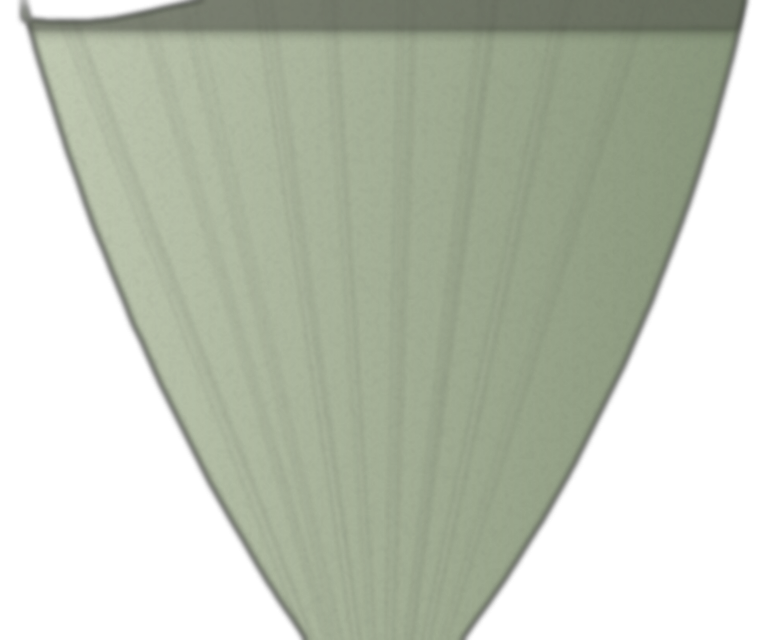
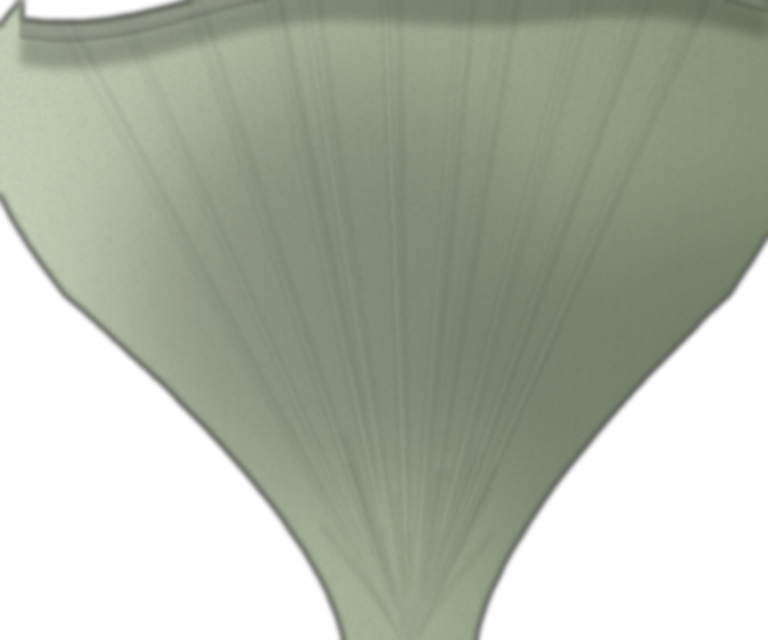
fix: 包み紙を、かたちから包み直した
質感は入ったが**まっすぐな辺の三角形**のままで、
「きれいに描かれた紙」に見えていた ── というご指摘。そのとおりだった。

水彩の筆を通しても、輪郭が直線なら図形のままになる。
本物のラッピングで起きていることを、かたちに入れた。

    口が開く       いちばん上が外へ反り返る
    花に押される   中ほどがふくらむ。辺は外へ張る
    リボンで締まる 結び目の上で急に細くなり、しわが下ほど密に寄る
    手で巻く       左右がそろわない（傾き・張り出しを片側ずつ変える）
    厚みがある     折り返しを「上を向いた面（明るい）＋下の影」の二本で出す

輪郭は片側を2本の弧に分けた。上半分は外へ張り出し、下半分は内へ締まる。
1本の弧では、ふくらみと締まりを同時に出せない。

ふくらんでいるところに光を乗せ、その外側（右下）は落とした。

■ 花の数に、紙が応える

実際のラッピングは、束が太いほど紙が押し広げられる。
絵は紙の色ごとに一枚のままで、**幅だけ**を花の数で変えた。

    3本  幅 57%    6本  幅 63%    9本  幅 69%

絵を何枚も持たずに「包んだ」感じが出る。

■ また黒い横棒が出た

折り返しの帯の**上辺だけ波に沿わせて、下辺をまっすぐ**にしていたため。
厚みではなく縁取りに見える。下辺も同じ波に沿わせて、
どこも同じ厚みで続くようにした。

（同じ失敗を二度している。一度目は波が±6pxで小さすぎたとき。
  **紙の縁に関わるものは、必ず縁の形に沿わせること。**）

通し確認7項目、すべて通過。

Claude-Session: https://claude.ai/code/session_01NKV57SwEiDA72EkGzXeu8N

diff --git a/src/components/BouquetWrap.tsx b/src/components/BouquetWrap.tsx
@@ -12,14 +12,29 @@
  * 紙は6色ぶん、リボンは5色ぶん、あらかじめ書き出してある。
  */
 
+import type { CSSProperties } from 'react';
+
 import './BouquetWrap.css';
 import { ribbonBow, wrapCone } from '../assets/paths';
 import type { Ribbon, Wrapping } from '../data/wrapping';
 
-export function WrapCone({ wrapping }: { wrapping: Wrapping }) {
+/**
+ * 包み紙。
+ *
+ * 絵は紙の色ごとに一枚ずつ。**ただし、太さだけは花の数で変わります。**
+ * 実際のラッピングでは、束が太いほど紙が押し広げられます。
+ * 絵を何枚も持たなくても、幅を変えるだけでその感じは出ます。
+ *
+ *   3本   幅 57%
+ *   6本   幅 63%
+ *   9本   幅 69%
+ */
+export function WrapCone({ wrapping, stems = 3 }: { wrapping: Wrapping; stems?: number }) {
+  const spread = Math.min(12, Math.max(2, stems));
   return (
     <img
       className={`wrap-cone ${wrapping.sheer ? 'wrap-cone--sheer' : ''}`}
+      style={{ '--spread': spread } as CSSProperties}
       src={wrapCone(wrapping.id)}
       alt=""
       aria-hidden

diff --git a/src/components/BouquetWrap.css b/src/components/BouquetWrap.css
@@ -9,7 +9,11 @@
   position: absolute;
   left: 50%;
   bottom: var(--knot-bottom);
-  width: calc(62% * var(--bouquet-scale, 1));
+  /*
+   * 花が多いほど、紙が押し広げられる。
+   * 絵は一枚だが、幅がその日の束に応えるので「包んだ」感じが出る。
+   */
+  width: calc((51% + var(--spread, 3) * 2%) * var(--bouquet-scale, 1));
   height: auto;
   /* 下辺（結び目）が、ちょうど扇の軸にくるように置く */
   transform: translate(-50%, 6%);

diff --git a/src/components/Bouquet.tsx b/src/components/Bouquet.tsx
@@ -161,7 +161,7 @@ export function Bouquet({
         );
       })}
 
-      <WrapCone wrapping={wrappingById(bouquet.wrappingId)} />
+      <WrapCone wrapping={wrappingById(bouquet.wrappingId)} stems={bouquet.stems.length} />
       <RibbonBow ribbon={ribbonById(bouquet.ribbonId)} />
     </div>
   );

diff --git a/tools/placeholder_art/props.py b/tools/placeholder_art/props.py
@@ -648,17 +648,20 @@ BOW_SIZE = (512, 512)
 
 def render_wrap_cone(paper_id: str, seed: int = 0) -> Image.Image:
     """
-    ブーケを包んだ紙。円錐に巻いた一枚。
+    ブーケを包んだ紙。
 
-    **これまで CSS の多角形で描いていました。**
-    真っ直ぐな辺と、等間隔の折り目（conic-gradient）で、
-    花と店内が水彩なのにここだけ図形に見えていました。
+    ── かたちのほうが、まだ「絵」でした ────────────────────────
+    水彩の質感は入りましたが、**まっすぐな辺の三角形**のままでした。
+    紙の手ざわりはあるのに、「きれいに描かれた紙」に見える理由がこれです。
 
-    花・人物と同じ筆で描き直します。
-      にじみ  輪郭を watercolor_mask に通す（切り抜きではなく、紙の縁）
-      光      左上ひとつ。左が明るく、右へ落ちる
-      重なり  折り目ごとに、隣の面へ影を落とす
-      縁      口もとを内側へ折り返す（紙は必ず二重になる）
+    本物のラッピングで起きていることを、かたちに入れます。
+
+      口が開く      いちばん上が外へ反り返る。切りっぱなしの縁が立つ
+      花に押される  中ほどがふくらむ。辺は直線ではなく、外へ張る
+      リボンで締まる 結び目の上で急に細くなり、しわが寄る
+      手で巻く      左右がそろわない。片側だけ多く重なる
+      紙に厚みがある 折り返しは「濃い色の帯」ではなく、
+                    **上の面（明るい）＋下の影**の二本で出す
     """
     spec = PAPERS[paper_id]
     rng = random.Random(seed + 700 + sum(map(ord, paper_id)))
@@ -666,19 +669,38 @@ def render_wrap_cone(paper_id: str, seed: int = 0) -> Image.Image:
     color = hex_rgb(spec["color"])
     edge = hex_rgb(spec["edge"])
 
-    # ---- 円錐のかたち。辺はまっすぐにしない（紙は手で巻くので、たわむ）
-    top_l, top_r = w * 0.03, w * 0.97
-    bot_l, bot_r = w * 0.40, w * 0.60
-    left = bezier((top_l, 0), (w * 0.16, h * 0.58), (bot_l, h), 28)
-    right = bezier((bot_r, h), (w * 0.86, h * 0.58), (top_r, 0), 28)
-    # 口もとも、まっすぐには切らない
-    # 口もとの波。**小さすぎると、まっすぐ切った線に見えます。**
-    # ±6px では 768px 幅に対して見えず、花の上に黒い横棒が渡っていました。
-    mouth = [(x,
-              20 * math.sin(x / w * 5.5 + 1.1)
-              + 9 * math.sin(x / w * 13.0 + 0.4) - 6)
-             for x in [top_l + (top_r - top_l) * i / 24 for i in range(25)]]
-    shape = left + [(bot_l, h), (bot_r, h)] + right + list(reversed(mouth))
+    # 手で巻いた紙は、左右がそろわない。
+    lean = rng.uniform(-0.035, 0.035)
+    swell_l = rng.uniform(0.085, 0.125)      # 左の張り出し
+    swell_r = rng.uniform(0.085, 0.125)
+    tie_l, tie_r = 0.415 + lean, 0.585 + lean
+    top_l, top_r = 0.015 + lean * 0.4, 0.985 + lean * 0.4
+
+    def side(x_top: float, x_tie: float, swell: float, out: int) -> list:
+        """
+        口もとから結び目までの、片側の輪郭。
+
+        2本に分ける。上半分は**外へ張り出し**（花に押されている）、
+        下半分は**内へ締まる**（リボンで絞られている）。
+        1本の弧では、この二つは同時に出せない。
+        """
+        mid = (x_top + (x_tie - x_top) * 0.42 + out * swell, h * 0.46)
+        upper = bezier((x_top * w, 0),
+                       ((x_top + out * swell * 1.15) * w, h * 0.17),
+                       (mid[0] * w, mid[1]), 22)
+        lower = bezier((mid[0] * w, mid[1]),
+                       ((x_tie + out * swell * 0.30) * w, h * 0.80),
+                       (x_tie * w, h), 22)
+        return upper + lower[1:]
+
+    left = side(top_l, tie_l, swell_l, -1)
+    right = list(reversed(side(top_r, tie_r, swell_r, +1)))
+
+    # 口もと。まっすぐ切らない。波は大きく。
+    mouth = [(x, 22 * math.sin(x / w * 5.1 + 1.4)
+                 + 10 * math.sin(x / w * 12.0 + 0.3) - 8)
+             for x in [top_l * w + (top_r - top_l) * w * i / 26 for i in range(27)]]
+    shape = left + right + list(reversed(mouth))
 
     def cone(d):
         d.polygon(shape, fill=255)
@@ -691,52 +713,86 @@ def render_wrap_cone(paper_id: str, seed: int = 0) -> Image.Image:
     cone(ImageDraw.Draw(mask))
     solid = watercolor_mask(mask, seed=seed, softness=3.2, bleed=0.07)
 
-    # ---- 光。左上から右下へ落ちる
-    #
-    # ここで一度、**紙のまわりに黒い輪郭**が出ました。
-    # 下に黒を敷いてから色を重ねていたので、にじんで薄くなった縁から
-    # 黒が透けていたためです。水彩の縁は、透けるほど**淡くなる**もので、
-    # 濃くなってはいけません。敷かずに、色だけを置きます。
+    # ---- 光。左上から右下へ落ちる。
+    # 下に黒を敷かないこと（縁から透けて、黒い輪郭になる）。
     grad = linear_gradient((w, h), shade(color, 0.22), shade(edge, -0.06), horizontal=True)
     lit = Image.new("RGBA", (w, h), (0, 0, 0, 0))
     lit.paste(grad, (0, 0), solid)
     img.alpha_composite(lit)
 
-    # ---- 折り目。等間隔にしないこと。手で巻いた紙は、幅がそろわない。
+    # ---- ふくらみ。花に押されて張っているところに、光が乗る。
+    swell_mask = Image.new("L", (w, h), 0)
+    ImageDraw.Draw(swell_mask).ellipse(
+        [w * 0.20, h * 0.16, w * 0.68, h * 0.74], fill=88)
+    img.alpha_composite(_paint((w, h),
+                               ImageChops.multiply(
+                                   swell_mask.filter(ImageFilter.GaussianBlur(64)), solid),
+                               shade(color, 0.30)))
+    # 張りの外側（右下）は、逆に落ちる
+    fall = Image.new("L", (w, h), 0)
+    ImageDraw.Draw(fall).ellipse([w * 0.62, h * 0.34, w * 1.10, h * 1.02], fill=54)
+    img.alpha_composite(_paint((w, h),
+                               ImageChops.multiply(
+                                   fall.filter(ImageFilter.GaussianBlur(58)), solid),
+                               shade(edge, -0.26)))
+
+    # ---- 折り目。等間隔にしない。結び目へ向かって、下ほど密に寄る。
     folds = Image.new("RGBA", (w, h), (0, 0, 0, 0))
     fd = ImageDraw.Draw(folds)
-    apex = (w * 0.5, h * 1.30)
-    t = 0.06
-    while t < 0.94:
-        x = top_l + (top_r - top_l) * t
-        dark = rng.uniform(0.10, 0.20)
-        fd.line([(x, 0), apex], fill=(*shade(edge, -0.34), int(255 * dark)),
+    apex = ((tie_l + tie_r) * 0.5 * w, h * 1.02)
+    t = 0.05
+    while t < 0.95:
+        x = (top_l + (top_r - top_l) * t) * w
+        # 谷（影）
+        fd.line([(x, 0), apex], fill=(*shade(edge, -0.36), int(255 * rng.uniform(0.10, 0.19))),
                 width=max(2, int(rng.uniform(2, 5))))
-        # 折り目のすぐ左は、光が乗る面
-        fd.line([(x - rng.uniform(6, 13), 0), apex],
-                fill=(*shade(color, 0.34), int(255 * rng.uniform(0.10, 0.18))),
+        # 山（光）。谷のすぐ左に来る ── 光は左上から
+        fd.line([(x - rng.uniform(7, 15), 0), apex],
+                fill=(*shade(color, 0.36), int(255 * rng.uniform(0.10, 0.17))),
                 width=max(2, int(rng.uniform(3, 7))))
-        t += rng.uniform(0.055, 0.115)
-    folds = folds.filter(ImageFilter.GaussianBlur(2.6))
-    img.alpha_composite(Image.composite(folds, Image.new("RGBA", (w, h), (0, 0, 0, 0)),
-                                        solid))
+        t += rng.uniform(0.050, 0.110)
+    folds = folds.filter(ImageFilter.GaussianBlur(2.4))
+    img.alpha_composite(Image.composite(folds, Image.new("RGBA", (w, h), (0, 0, 0, 0)), solid))
 
-    # ---- 口もとの折り返し。紙は必ず二重になる。
-    cuff = Image.new("L", (w, h), 0)
-    # 濃くしすぎないこと。最初 210 で塗ったら、口もとに**黒い帯**が
-    # 渡っているように見えた。折り返しは影であって、縁取りではない。
-    ImageDraw.Draw(cuff).polygon(
-        mouth + [(top_r, h * 0.052), (top_l, h * 0.052)], fill=66)
-    cuff = ImageChops.multiply(cuff.filter(ImageFilter.GaussianBlur(5)), solid)
-    img.alpha_composite(_paint((w, h), cuff, shade(edge, -0.30)))
-    # 折り返しの手前側は、逆に明るい
-    lip = Image.new("L", (w, h), 0)
-    ImageDraw.Draw(lip).polygon(
-        mouth + [(top_r, h * 0.045), (top_l, h * 0.045)], fill=120)
+    # ---- 結び目のところの、寄り。
+    # リボンで締まると、紙はここに集まる。**下ほど濃く、短く。**
+    gather = Image.new("RGBA", (w, h), (0, 0, 0, 0))
+    gd = ImageDraw.Draw(gather)
+    for _ in range(16):
+        gx = rng.uniform(tie_l - 0.05, tie_r + 0.05) * w
+        top_y = h * rng.uniform(0.66, 0.84)
+        gd.line([(gx + rng.uniform(-18, 18), top_y), (apex[0], h)],
+                fill=(*shade(edge, -0.42), int(255 * rng.uniform(0.10, 0.22))),
+                width=max(2, int(rng.uniform(2, 4))))
+    gather = gather.filter(ImageFilter.GaussianBlur(3.0))
+    img.alpha_composite(Image.composite(gather, Image.new("RGBA", (w, h), (0, 0, 0, 0)), solid))
+
+    # ---- 口もとの折り返し。**紙の厚み**はここで出す。
+    #
+    # 濃い帯を一本引くのでは、厚みではなく「縁取り」になる。
+    # 上を向いた面（明るい）と、その下に落ちる影（暗い）の二本にする。
+    #
+    # **帯の下辺も、波に沿わせること。**
+    # 上だけ波で下がまっすぐだと、厚みではなく**黒い横棒**が渡って見える。
+    # 実際そうなった。紙の折り返しは、どこも同じ厚みで続いている。
+    def band(offset: float, thick: float) -> list:
+        upper = [(x, y + offset) for x, y in mouth]
+        lower = [(x, y + offset + thick) for x, y in reversed(mouth)]
+        return upper + lower
+
+    thickness = h * 0.028
+    face = Image.new("L", (w, h), 0)
+    ImageDraw.Draw(face).polygon(band(0, thickness), fill=132)
     img.alpha_composite(_paint((w, h),
-                               ImageChops.multiply(lip.filter(ImageFilter.GaussianBlur(3)),
+                               ImageChops.multiply(face.filter(ImageFilter.GaussianBlur(2.4)),
                                                    solid),
-                               shade(color, 0.42)))
+                               shade(color, 0.50)))
+    under = Image.new("L", (w, h), 0)
+    ImageDraw.Draw(under).polygon(band(thickness, thickness * 1.5), fill=72)
+    img.alpha_composite(_paint((w, h),
+                               ImageChops.multiply(under.filter(ImageFilter.GaussianBlur(5.0)),
+                                                   solid),
+                               shade(edge, -0.30)))
 
     return paper_texture(img, seed=seed, strength=0.09)
 

diff --git a/IMAGE_ASSETS.md b/IMAGE_ASSETS.md
@@ -216,9 +216,27 @@
 > ```
 > にじみ  輪郭は切り抜きではなく、紙の縁。ただし広い面なので弱く（0.07）
 > 光      左上ひとつ。左が明るく、右へ落ちる
-> 重なり  折り目ごとに隣の面へ影。口もとは内側へ折り返す（紙は必ず二重）
+> 重なり  折り目ごとに隣の面へ影
 > 縁      口もとをまっすぐ切らない。波は大きく（小さいと横棒に見える）
 > ```
+>
+> **かたちのほうも、三角形にしないでください。**
+> 水彩の質感を入れても、辺がまっすぐだと「きれいに描かれた紙」に見えます。
+> 本物のラッピングで起きていることを、輪郭に入れます。
+>
+> ```
+> 口が開く       いちばん上が外へ反り返る。切りっぱなしの縁が立つ
+> 花に押される   中ほどがふくらむ。辺は直線ではなく、外へ張る
+> リボンで締まる 結び目の上で急に細くなり、しわが寄る（下ほど密に）
+> 手で巻く       左右がそろわない。片側だけ多く重なる
+> 紙に厚みがある 折り返しは「濃い色の帯」ではなく、
+>                **上を向いた面（明るい）＋その下の影**の二本で出す
+>                帯の**下辺も波に沿わせる**こと。
+>                上だけ波で下がまっすぐだと、厚みではなく黒い横棒に見える
+> ```
+>
+> 束の太さは、**画面側が幅で応えます**（花が多いほど紙が押し広げられる）。
+> 絵は紙の色ごとに一枚で足ります。
 >
 > 紙6色・リボン5色ぶん、あらかじめ書き出します。
 
